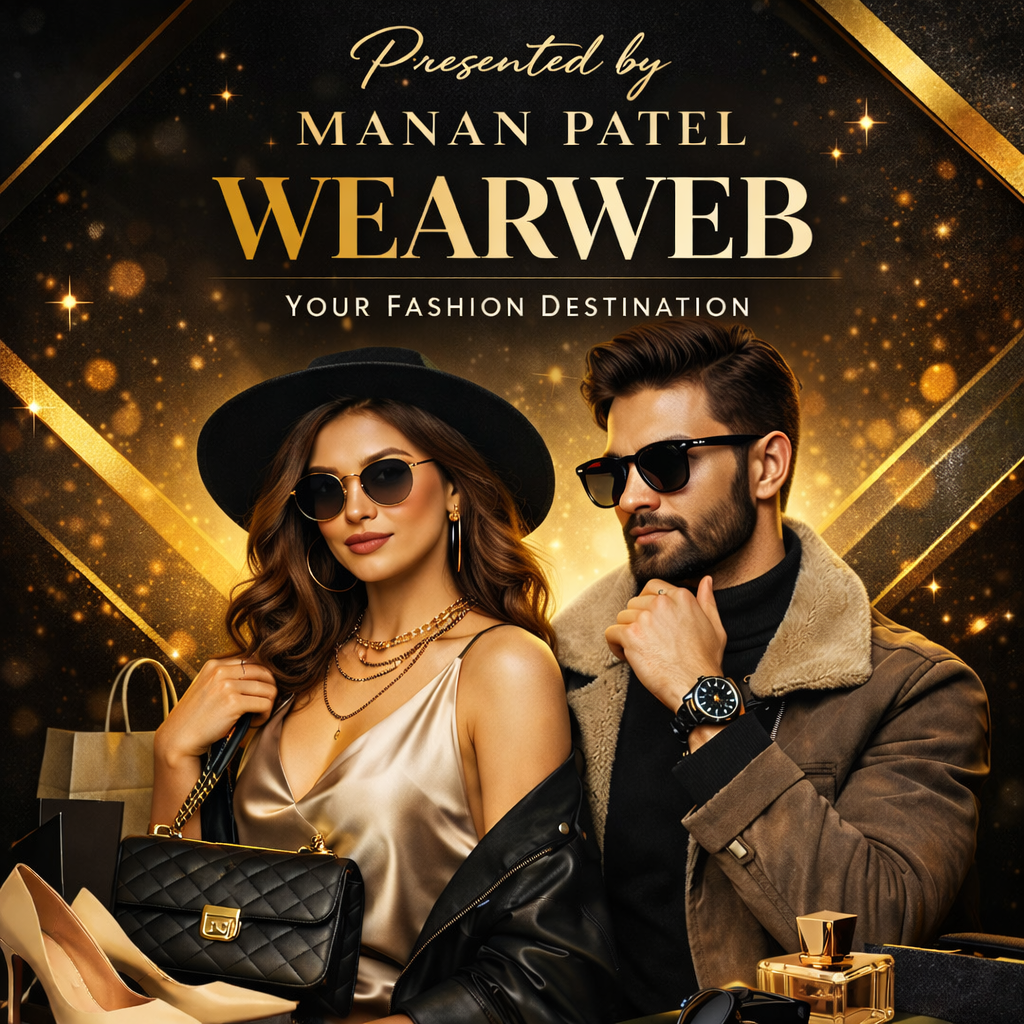
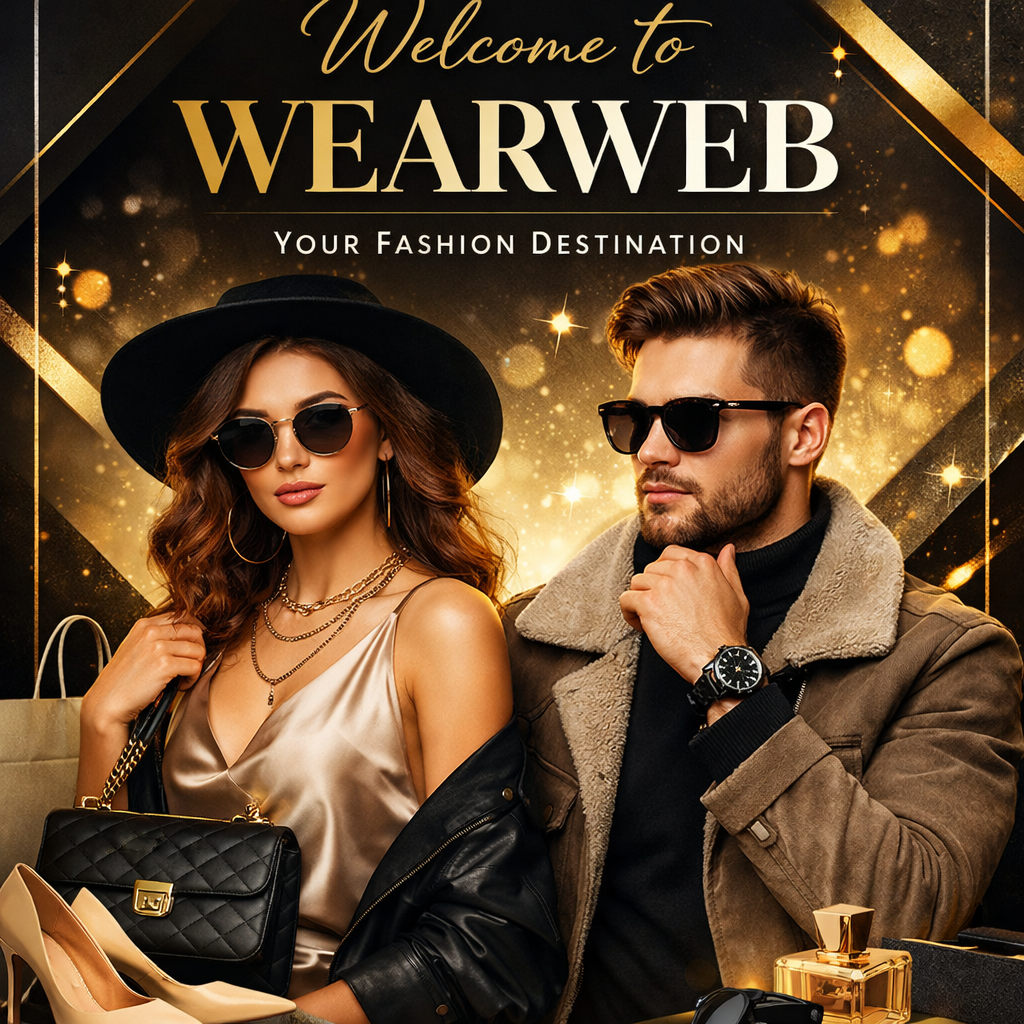
Update welcome email subject and message for user signup

diff --git a/wearweb/core/views.py b/wearweb/core/views.py
@@ -20,7 +20,7 @@ def usersignupview(request):
             email = form.cleaned_data['email']
 
             # -------- PREMIUM EMAIL --------
-            subject = "Welcome to WearWeb 👑"
+            subject = "Welcome to WearWeb "
             from_email = settings.EMAIL_HOST_USER
             to = [email]
 
@@ -29,7 +29,7 @@ def usersignupview(request):
                 <div style="max-width:600px; margin:auto; background:#1a1a1a; padding:30px; border-radius:12px; text-align:center;">
 
                     <h3 style="color:#c5a047; letter-spacing:3px; margin-bottom:5px;">
-                        ✨ Presented by Manan Patel ✨
+                        “Step Into Style with WearWeb”
                     </h3>
 
                     <h1 style="color:#d4af37; font-size:40px; margin:10px 0;">
